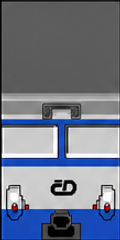
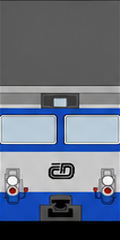
Refactor code structure for improved readability and maintainability

diff --git a/scripts/remaster_atlas.py b/scripts/remaster_atlas.py
@@ -74,8 +74,15 @@ ATLAS_PROMPT = (
     "reproduce every logo with its correct, original orientation and shape — NEVER mirror, "
     "flip, rotate or reverse a logo, and make sure EVERY instance of the same logo on the "
     "sheet looks identical (same direction, not a mirror image of another). Render the "
-    "vehicle's WHEELS as clean, perfectly ROUND circles (not ovals, not polygons). Only "
-    "sharpen edges and add fine, plausible detail to what is already present."
+    "vehicle's WHEELS as clean, perfectly ROUND circles (not ovals, not polygons). "
+    "DE-PIXELATE: the source is a low-resolution pixel image, so every diagonal or curved "
+    "feature — pantograph arms and frames, window and door frames, handrails, roof and body "
+    "lining stripes, gear/bogie/wheel outlines, lamps — currently looks jagged and "
+    "stair-stepped. Redraw these as SMOOTH, clean, continuous, anti-aliased lines and curves: "
+    "remove the blocky pixel staircase entirely while keeping each feature's shape, position "
+    "and colour. Straight horizontal/vertical edges stay crisp; only the jagged diagonals and "
+    "curves get smoothed. Add fine, plausible detail to what is already present; do not invent "
+    "new features."
 )
 
 
@@ -277,6 +284,107 @@ def content_bbox(img: Image.Image, box, threshold: int = 14) -> list[int] | None
     return [box[0] + bb[0], box[1] + bb[1], box[0] + bb[2], box[1] + bb[3]]
 
 
+SPARSE_FRAC = 0.20      # source with <20% bright pixels => use the bbox metric
+SPARSE_SCALE = 3.0      # rescale the bbox metric onto the profile metric's threshold
+
+
+def alignment_score(ai_tile: Image.Image, src: Image.Image, threshold: int = 24) -> float:
+    """Position-sensitive, detail-robust mismatch between an AI tile and its source.
+    Lower = better aligned; compare against ``ALIGN_FAIL`` (see ``check``).
+
+    Two regimes — the profile metric is unreliable on near-black tiles (normalising an
+    almost-flat profile amplifies noise, so an aligned sparse tile scores as high as a
+    broken one):
+
+    * DENSE source (>=20% bright px): compare the NORMALIZED row/column brightness
+      PROFILES (where the dark/bright bands sit), not raw pixels — so the AI re-drawing a
+      cab face or running number scores LOW, but a vertically squashed/shifted tile (the
+      classic x_* cab drift) scores HIGH because its bands move.
+    * SPARSE source (<20% bright px, e.g. a gear/end tile that is one small blob on black):
+      compare the normalized CONTENT BBOX corners — does the blob land where the source's
+      blob is? Rescaled (×3) so the same threshold applies as the dense metric.
+    """
+    import numpy as np
+
+    s = np.asarray(src.convert("L"), float)
+    a = np.asarray(ai_tile.resize(src.size).convert("L"), float)
+
+    if (s > threshold).mean() < SPARSE_FRAC:
+        def bbox(arr):
+            m = arr > threshold
+            ys, xs = m.nonzero()
+            if len(xs) == 0:
+                return None
+            h, w = arr.shape
+            return np.array([xs.min() / w, ys.min() / h,
+                             (xs.max() + 1) / w, (ys.max() + 1) / h])
+
+        bs, ba = bbox(s), bbox(a)
+        if bs is None or ba is None:
+            return 0.0 if bs is ba else 1.0
+        return float(np.abs(bs - ba).mean()) * SPARSE_SCALE
+
+    def prof(g):
+        col, row = g.mean(axis=0), g.mean(axis=1)
+
+        def nz(v):
+            v = v - v.min()
+            m = v.max()
+            return v / m if m > 0 else v
+
+        return nz(col), nz(row)
+
+    cs, rs = prof(s)
+    ca, ra = prof(a)
+    return float(np.abs(cs - ca).mean() + np.abs(rs - ra).mean())
+
+
+def refine_content_box(ai: Image.Image, box, src_path: Path) -> list[int]:
+    """Locally nudge a detected ``content_box`` so the cropped+resized tile best matches
+    its SOURCE texture, correcting the small per-tile drift gpt-image leaves — most often
+    the ~15-25px vertical squash on near-full cab tiles (``x_dec``/``x_inc``) that the
+    gutter detector under-sizes. Coarse-to-fine search of each edge; keeps the source as
+    the ground truth for POSITION (the AI changes detail, not the silhouette). No-op when
+    the source is missing.
+    """
+    try:
+        src = Image.open(src_path).convert("L")
+    except Exception:  # noqa: BLE001
+        return list(box)
+    import numpy as np
+
+    sarr = np.asarray(src, float)
+    iw, ih = ai.size
+
+    def score(b):
+        b = (max(0, b[0]), max(0, b[1]), min(iw, b[2]), min(ih, b[3]))
+        if b[2] - b[0] < 2 or b[3] - b[1] < 2:
+            return 1e9
+        c = np.asarray(ai.crop(b).convert("L").resize(src.size), float)
+        return float(np.abs(c - sarr).mean())
+
+    x0, y0, x1, y1 = (int(v) for v in box)
+    bw, bh = x1 - x0, y1 - y0
+    cur = [x0, y0, x1, y1]
+    # amplitude covers the observed cab drift; coarse pass then a tight refine
+    ax, ay = max(3, round(bw * 0.12)), max(3, round(bh * 0.14))
+    for amp_x, amp_y, step in [(ax, ay, max(2, ax // 3)), (3, 3, 1)]:
+        bx0, by0, bx1, by1 = cur
+        best = (score(cur), list(cur))
+        for d0 in range(-amp_x, amp_x + 1, step):
+            for e0 in range(-amp_y, amp_y + 1, step):
+                for d1 in range(-amp_x, amp_x + 1, step):
+                    for e1 in range(-amp_y, amp_y + 1, step):
+                        b = [bx0 + d0, by0 + e0, bx1 + d1, by1 + e1]
+                        if b[2] - b[0] < bw * 0.6 or b[3] - b[1] < bh * 0.6:
+                            continue
+                        sc = score(b)
+                        if sc < best[0]:
+                            best = (sc, b)
+        cur = best[1]
+    return [max(0, cur[0]), max(0, cur[1]), min(iw, cur[2]), min(ih, cur[3])]
+
+
 def safe_ref_name(ref: str) -> str:
     """Filesystem-safe name for a texture ref (pack:z_dec.bmp -> pack_z_dec.bmp)."""
     return ref.replace(":", "_").replace("/", "_")
@@ -315,16 +423,20 @@ def prepare(model_dir: Path, out_root: Path, client, quality: str, pad: int,
     compact.resize((cw4, ch4), Image.LANCZOS).save(out_dir / "atlas_4x_raw.png")
     compact_boxes = map_to_boxes(compact_map, cw4, ch4)
 
-    # ... and the padded atlas (sent to the AI). Pre-upscale it LOCALLY (LANCZOS) to
-    # the exact API output size, so the model only has to sharpen at native target
-    # resolution — it does no upscaling itself, and tiles carry more pixels for detail
-    # (rounder wheels, less pixelation). Saved as atlas_padded_4x_raw.png.
+    # ... and the padded atlas (sent to the AI). Pre-upscale it LOCALLY to the exact API
+    # output size so the model does no upscaling itself. Use NEAREST, not LANCZOS: the
+    # sources are tiny pixel images and a LANCZOS pre-upscale BLURS fine detail (a 6px
+    # 'ČD' emblem, window mullions, gear) into mush BEFORE the model ever sees it — the
+    # model then hallucinates (e.g. 'ČD' -> two round 'eyes'). NEAREST preserves the
+    # exact pixel blocks, so the model sees the true shapes and can both keep them correct
+    # AND smooth their jagged edges (see the de-pixelate clause in ATLAS_PROMPT). Saved as
+    # atlas_padded_4x_raw.png.
     padded_png, padded_map, _ = build_padded_atlas(model_sub, model_xml, pad)
     padded = Image.open(io.BytesIO(padded_png)).convert("RGB")
     pw, ph = padded.size
     size = pick_size(pw * UPSCALE, ph * UPSCALE)
     aw, ah = (int(v) for v in size.split("x"))
-    raw_for_ai = padded.resize((aw, ah), Image.LANCZOS)
+    raw_for_ai = padded.resize((aw, ah), Image.NEAREST)
     raw_for_ai.save(out_dir / "atlas_padded_4x_raw.png")
 
     usage, cost = {}, 0.0
@@ -353,6 +465,15 @@ def prepare(model_dir: Path, out_root: Path, client, quality: str, pad: int,
         content = det[ref]["content"]
         fills = det[ref]["fills_frame"]
         cbox = compact_boxes[ref]
+        # Auto-fit the content_box to the source (fixes the cab-tile vertical drift the
+        # gutter detector under-sizes), so the per-texture 4x lands in the right place
+        # without manual editing. Only for real pack textures with a source file.
+        if ref.startswith("pack:"):
+            src_path = model_sub / ref[len("pack:"):]
+            refined = refine_content_box(ai, content, src_path)
+            if refined != list(content):
+                content = refined
+                fills = False  # nudged — worth a glance in check
         ai.crop(cell).save(out_dir / "tiles" / f"{safe_ref_name(ref)}.png")
         tiles.append({"ref": ref, "padded_box": cell, "content_box": content,
                       "compact_box": cbox, "fills_frame": fills})
@@ -398,7 +519,8 @@ def assemble(model_dir: Path, out_root: Path, db_copy: bool) -> dict:
 
     # Crop each tile's content_box from the AI result and resize it to 4x the SOURCE
     # texture's own size — one independent PER-TEXTURE file (z_both.bmp -> z_both_4x.png).
-    # atlas_4x is NOT assembled here; it is derived later from these files.
+    # The render atlas_4x is derived later by the JS build from these files; we also write
+    # an inspection-only atlas_4x.png in generated/ below (build_inspection_atlas).
     written: list[str] = []
     upscaled: dict[str, Image.Image] = {}
     for t in rc["tiles"]:
@@ -424,6 +546,11 @@ def assemble(model_dir: Path, out_root: Path, db_copy: bool) -> dict:
     # High-res thumbnail (image_4x.png) from the AI side texture — no extra AI call.
     image_4x_path = build_thumbnail(upscaled, model_dir, out_dir, db_copy)
 
+    # Rebuild the combined inspection atlas (NOT used for rendering — the JS build derives
+    # the real one from the per-texture files; this is the human-analysis copy, kept fresh
+    # so it reflects THIS assemble instead of a stale earlier run).
+    build_inspection_atlas(rc, upscaled, out_dir)
+
     cost = rc.get("cost_usd", 0.0)
     rc["status"] = "assembled"
     rc["textures_4x"] = written
@@ -436,8 +563,38 @@ def assemble(model_dir: Path, out_root: Path, db_copy: bool) -> dict:
         print(f"  saved next to the sources in {model_sub.relative_to(_repo_root())}/")
     if image_4x_path:
         print(f"  thumbnail: {image_4x_path}")
+    print(f"  inspection atlas: {(out_dir / 'atlas_4x.png').relative_to(_repo_root())} (+ _overlay)")
     print(f"  AI upscaling cost for this model: ${cost:.4f}")
     return rc
+
+
+def build_inspection_atlas(rc: dict, upscaled: dict[str, Image.Image], out_dir: Path) -> None:
+    """Repack the per-texture *_4x tiles onto the compact layout at 4x -> atlas_4x.png,
+    and blend it 50/50 with the classical atlas_4x_raw.png -> atlas_4x_overlay.png.
+
+    For human inspection only (mirrors the JS `buildAtlas4x`). Tiles are placed at their
+    `compact_box` origin — the exact 4x compact positions the renderer's UVs expect — so
+    the overlay reveals any drift between the classical and AI upscales.
+    """
+    cw4, ch4 = rc["compact_size"]
+    atlas = Image.new("RGB", (cw4, ch4), (0, 0, 0))
+    for t in rc["tiles"]:
+        tile = upscaled.get(t["ref"])
+        if tile is None:
+            continue
+        x0, y0, x1, y1 = t["compact_box"]
+        if tile.size != (x1 - x0, y1 - y0):  # guard rounding: fit to the slot
+            tile = tile.resize((max(1, x1 - x0), max(1, y1 - y0)), Image.LANCZOS)
+        if x0 + tile.width <= cw4 and y0 + tile.height <= ch4:
+            atlas.paste(tile, (x0, y0))
+    atlas.save(out_dir / "atlas_4x.png")
+
+    raw_path = out_dir / "atlas_4x_raw.png"
+    if raw_path.exists():
+        raw = Image.open(raw_path).convert("RGB")
+        if raw.size != atlas.size:
+            raw = raw.resize(atlas.size, Image.LANCZOS)
+        Image.blend(raw, atlas, 0.5).save(out_dir / "atlas_4x_overlay.png")
 
 
 # Side textures, in preference order, used as the high-res thumbnail source.
@@ -451,7 +608,15 @@ def build_thumbnail(upscaled: dict[str, "Image.Image"], model_dir: Path,
     Picks the first available side tile and, when a source image.bmp exists, resizes
     it to image.bmp's size x4 so it is a drop-in higher-res thumbnail.
     """
-    side = next((upscaled[r] for r in THUMBNAIL_SIDE_REFS if r in upscaled), None)
+    # Match by SUFFIX, not exact ref: texture files are often prefixed (em475_z_both.bmp),
+    # so an exact "pack:z_both.bmp" lookup would miss them and skip the thumbnail entirely.
+    side = None
+    for suffix in THUMBNAIL_SIDE_REFS:
+        bare = suffix[len("pack:"):]
+        side = next((img for ref, img in upscaled.items()
+                     if ref.startswith("pack:") and ref[len("pack:"):].endswith(bare)), None)
+        if side is not None:
+            break
     if side is None:
         return None
     thumb = side
@@ -484,7 +649,13 @@ def check(model_dir: Path, out_root: Path) -> dict:
 
     import numpy as np
     rows, row_h, pad = [], 120, 6
-    print("  per-texture mismatch (raw vs AI, lower = better aligned; high => fix content_box):")
+    # align score above this => the tile is shifted/squashed, not merely re-detailed.
+    # Tuned so an aligned (even heavily re-drawn / de-dithered) tile passes — dense cab
+    # ~0.14-0.21, sparse blob ~0 — while a ~20px vertical drift (~0.27+) or a misplaced
+    # blob (~0.38) fails. See alignment_score for the dense/sparse regimes.
+    ALIGN_FAIL = 0.24
+    flagged: list[str] = []
+    print("  per-texture mismatch (lower=better). align catches shift/squash; review=ALIGN: re-fit content_box:")
     for t in rc["tiles"]:
         ref = t["ref"]
         if not ref.startswith("pack:"):
@@ -497,25 +668,41 @@ def check(model_dir: Path, out_root: Path) -> dict:
         src = model_sub / name
         rt = (Image.open(src).convert("RGB").resize(at.size, Image.LANCZOS)
               if src.exists() else at)
-        # alignment score: a simple downsized abs-diff of normalized tiles flags
-        # gross mispositions (the AI's extra sharpness alone scores low).
+        # mismatch: downsized abs-diff — coarse, also rises with the AI's added detail.
         small = (32, 32)
         a = np.asarray(rt.resize(small).convert("L")).astype(float)
         b = np.asarray(at.resize(small).convert("L")).astype(float)
         a -= a.mean(); b -= b.mean()
         score = round(float(np.abs(a - b).mean()), 1)
+        # align: position-sensitive but detail-robust (profile-based). This is the one
+        # that reliably catches the x_* cab tiles drifting vertically — read it FIRST.
+        align = round(alignment_score(at, Image.open(src).convert("L")), 3) if src.exists() else 0.0
+        bad = align > ALIGN_FAIL
+        if bad:
+            flagged.append(name)
         w = max(1, round(at.width * row_h / at.height))
         strip = Image.new("RGB", (w * 2 + pad * 3, row_h + 18), (32, 32, 32))
         strip.paste(rt.resize((w, row_h)), (pad, 16))
         strip.paste(at.resize((w, row_h)), (w + pad * 2, 16))
-        ImageDraw.Draw(strip).text((pad, 3), f"{name}  raw | AI   mismatch={score}",
-                                   fill=(230, 230, 230))
+        tag = "  <<< REVIEW: MISALIGNED" if bad else ""
+        ImageDraw.Draw(strip).text((pad, 3),
+                                   f"{name}  raw | AI   mismatch={score} align={align}{tag}",
+                                   fill=(255, 90, 90) if bad else (230, 230, 230))
+        if bad:  # red frame so a misaligned tile is obvious at a glance in the sheet
+            ImageDraw.Draw(strip).rectangle([0, 0, strip.width - 1, strip.height - 1],
+                                            outline=(255, 60, 60), width=3)
         rows.append(strip)
-        print(f"    {name:22} mismatch={score}")
+        print(f"    {name:22} mismatch={score}  align={align}"
+              f"{'   <<< REVIEW: MISALIGNED (re-fit content_box)' if bad else ''}")
 
     if not rows:
         print("  [warn] no *_4x.png found in generated/ — run `assemble` first")
         return rc
+    if flagged:
+        print(f"  [REVIEW] {len(flagged)} tile(s) look misaligned (align>{ALIGN_FAIL}): "
+              f"{', '.join(flagged)} — re-fit their content_box, re-assemble, re-check.")
+    else:
+        print("  [ok] all tiles within alignment tolerance.")
     width = max(r.width for r in rows)
     sheet = Image.new("RGB", (width, sum(r.height for r in rows)), (20, 20, 20))
     y = 0

diff --git a/.claude/skills/remaster-atlas/SKILL.md b/.claude/skills/remaster-atlas/SKILL.md
@@ -33,15 +33,16 @@ All commands run from the repo root. The model name comes from the user's reques
      (compact non-AI reference for manual comparison), and `recompact.json` (the tile boxes —
      this is what you edit).
 
-2. **Review the AI result (usually no edits needed).** `prepare` already auto-detects each tile's
-   box by finding the AI's content region and segmenting it on the black gutters
-   (`detect_tile_boxes`), so `recompact.json` `content_box`es are normally correct. First just run
-   `assemble` (step 3) and look at the overlay (step 4). Only if a tile is misaligned there, open
-   `generated/<slug>/atlas_padded_4x.png` (and `tiles/<ref>.png`) and fix that tile's `content_box`
-   — the absolute `[x0,y0,x1,y1]` rectangle in `atlas_padded_4x.png` that bounds the AI-drawn tile
-   (keep its aspect ratio close to the source so it isn't stretched). `fills_frame:false` marks
-   tiles the detector wasn't confident about (sparse gear/end) — those are the likeliest to need a
-   nudge. Edit `recompact.json` and re-run `assemble`.
+2. **Review the AI result (usually no edits needed).** `prepare` auto-detects each tile's box by
+   finding the AI's content region and segmenting it on the black gutters (`detect_tile_boxes`),
+   then **auto-fits** every tile's `content_box` to its source (`refine_content_box`) so the small
+   per-tile drift is corrected automatically — so `recompact.json` `content_box`es are normally
+   correct. First just run `assemble` (step 3) and look at the check (step 4). Only if a tile is
+   misaligned there, open `generated/<slug>/atlas_padded_4x.png` (and `tiles/<ref>.png`) and fix
+   that tile's `content_box` — the absolute `[x0,y0,x1,y1]` rectangle in `atlas_padded_4x.png` that
+   bounds the AI-drawn tile (keep its aspect ratio close to the source so it isn't stretched).
+   `fills_frame:false` marks tiles the detector/auto-fit nudged (sparse gear/end, cab fronts) —
+   those are the likeliest to still need a manual nudge. Edit `recompact.json` and re-run `assemble`.
 
 3. **Assemble** the per-texture 4x files:
    ```
@@ -52,24 +53,39 @@ All commands run from the repo root. The model name comes from the user's reques
    `db/.../model/<name>_4x.png` (e.g. `z_both_4x.png`, `x_both_4x.png`) — plus debug copies in
    `generated/<slug>/`. It also writes a high-res thumbnail `db/.../image_4x.png` from the AI side
    texture (z_both/z_dec/z_inc, no extra AI call; sized to `image.bmp`×4), and prints the model's AI
-   upscaling cost. **No `atlas_4x.png` is written** — the JS build/upload derives the 4x atlas from
-   these `*_4x.png` files. `upload_loco.py` uses `image_4x.png` instead of `image.bmp` when present.
+   upscaling cost. It also **rebuilds `generated/<slug>/atlas_4x.png`** (the per-texture tiles
+   repacked onto the compact layout at 4x) plus `atlas_4x_overlay.png` (50/50 blend with the
+   classical `atlas_4x_raw.png`) — these are **for human inspection only**, refreshed on every
+   `assemble` so they never go stale. The 4x atlas the renderer actually uses is still derived by the
+   JS build/upload from the `*_4x.png` files (`scripts/lib/atlas4x.mjs`), not from this copy.
+   `upload_loco.py` uses `image_4x.png` instead of `image.bmp` when present.
 
 4. **Verify positions — REQUIRED.** Run:
    ```
    python3 scripts/remaster_atlas.py check --model <NAME>
    ```
-   This prints a per-texture mismatch score and writes `generated/<slug>/textures_4x_check.png` — a
-   per-texture **`raw | AI`** side-by-side (`raw` is the source texture upscaled classically; `AI`
-   is the `<name>_4x.png` you produced). **Read `textures_4x_check.png`.** For every texture the two
-   halves must show the SAME part in the SAME position/shape (the AI half just sharper, and its
-   number/markings may differ — that is fine). A texture is WRONG only if its AI half shows a
-   different part, is shifted, cropped, or stretched.
-   - A **high mismatch score alone is not a failure** — the AI re-renders content, so sharp tiles
-     score high. Use the score only to decide which tiles to look at; judge by eye.
+   This prints, per texture, a `mismatch` score, an `align` score, and writes
+   `generated/<slug>/textures_4x_check.png` — a per-texture **`raw | AI`** side-by-side (`raw` is the
+   source texture upscaled classically; `AI` is the `<name>_4x.png` you produced). **Read
+   `textures_4x_check.png`.** For every texture the two halves must show the SAME part in the SAME
+   position/shape (the AI half just sharper, and its number/markings may differ — that is fine). A
+   texture is WRONG only if its AI half shows a different part, is shifted, cropped, or stretched.
+   - **`align` is the score to trust for position** — it compares the brightness *profiles*, so a
+     re-drawn cab face/number scores low while a shifted/squashed tile scores high. Any tile with
+     `align > 0.18` is printed as **`<<< REVIEW: MISALIGNED`** and drawn with a **red frame** in the
+     check sheet. The run also ends with `[REVIEW] …` listing every flagged tile (or `[ok]`). Treat a
+     flagged tile as a failure to fix; don't ship while anything is flagged.
+   - A **high `mismatch` score alone is not a failure** — the AI re-renders content, so sharp tiles
+     score high there. Use `mismatch` only to decide what to eyeball; judge alignment by `align` + eye.
+   - ⚠ **ALWAYS scrutinise the `x_*` cab/end tiles (top of the check sheet) specifically.** They are
+     near-square fronts whose black top/bottom margins give the gutter detector little to lock onto,
+     so they are the tiles that historically drift vertically (the cab gets squashed and the `ČD`
+     emblem turns into two round "eyes"). Confirm the windshield band, body lining, emblem, lights and
+     coupler sit at the SAME height in both halves. The `align` flag is tuned to catch this, but look
+     anyway.
    - If a tile is genuinely wrong, find its real rectangle in `atlas_padded_4x.png`, fix that tile's
      `content_box` in `recompact.json` (keep the source aspect ratio), re-run `assemble`, then
-     `check` again. Iterate until every tile matches.
+     `check` again. Iterate until every tile matches and nothing is flagged.
 
 5. **Report** to the user: the per-texture `<name>_4x.png` files written next to the sources in
    `db/.../model/` (list them), that `image_4x.png` was written, and — REQUIRED — **the price of
@@ -84,4 +100,10 @@ All commands run from the repo root. The model name comes from the user's reques
   neighbouring tiles.
 - The per-texture `*_4x.png` are 4x the source's own size; the JS build/upload derives the 4x atlas
   from them (`scripts/lib/atlas4x.mjs`), so no manual atlas/UV step is needed here.
+- **Resolution:** the padded atlas is pre-upscaled with **NEAREST** (not LANCZOS) before the AI call,
+  so tiny detail (a 6px `ČD` emblem, window mullions, gear teeth) reaches the model as crisp pixels
+  instead of pre-blurred mush it would have to guess at. The de-pixelate clause in `ATLAS_PROMPT` then
+  asks the model to smooth the jagged diagonals/curves while keeping shapes. If output still looks
+  soft/under-resolved, the tile may be getting too few pixels in the shared 1024² canvas — lowering
+  `--pad` frees canvas for the tiles (at the risk of tiles merging).
 - Originals are never modified; only new `<name>_4x.png` and `image_4x.png` files are written.
